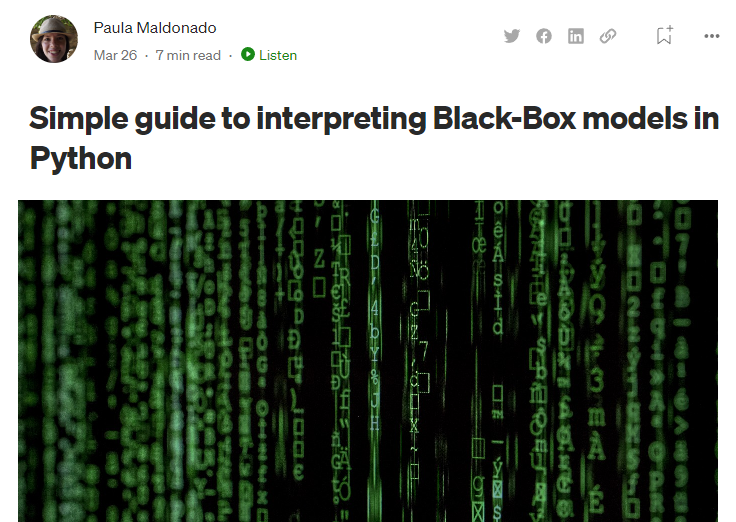
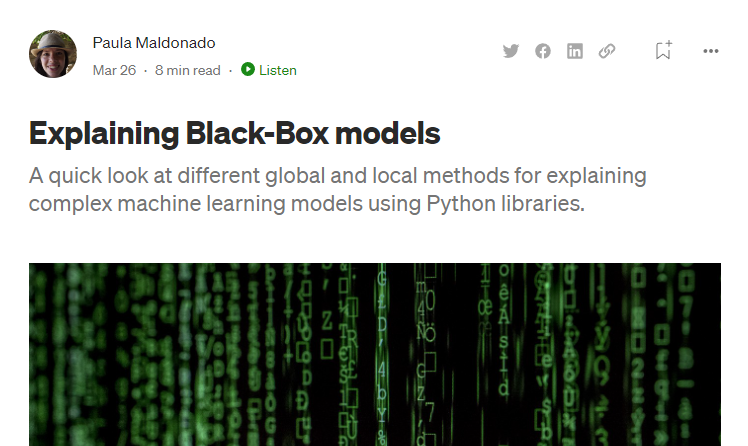
update: medium article title updated

diff --git a/projects.html b/projects.html
@@ -185,12 +185,12 @@
             <div class="portfolio-wrap">
               <figure>
                 <img src="assets/img/portfolio/BlackBoxArticle.png" class="img-fluid" alt="">
-                <a href="assets/img/portfolio/BlackBoxArticle.png" class="link-preview portfolio-lightbox" data-gallery="portfolioGallery" title="Simple guide to interpreting Black-Box models in Python"><i class="bi bi-plus"></i></a>
+                <a href="assets/img/portfolio/BlackBoxArticle.png" class="link-preview portfolio-lightbox" data-gallery="portfolioGallery" title="Simple guide to explaining Black-Box models in Python"><i class="bi bi-plus"></i></a>
                 <a href="https://medium.com/@pcmaldonado/simple-guide-to-interpreting-black-box-models-in-python-5c8bb3b5fcae" class="link-details" title="More Details"><i class="bi bi-link"></i></a>
               </figure>
   
               <div class="portfolio-info">
-                <h4><a href="https://medium.com/@pcmaldonado/simple-guide-to-interpreting-black-box-models-in-python-5c8bb3b5fcae">Interpreting Black-Box models</a></h4>
+                <h4><a href="https://medium.com/@pcmaldonado/simple-guide-to-interpreting-black-box-models-in-python-5c8bb3b5fcae">Explaining Black-Box models</a></h4>
                 <p>Medium Article</p>
               </div>
             </div>

diff --git a/index.html b/index.html
@@ -266,12 +266,12 @@
           <div class="portfolio-wrap">
             <figure>
               <img src="assets/img/portfolio/BlackBoxArticle.png" class="img-fluid" alt="">
-              <a href="assets/img/portfolio/BlackBoxArticle.png" class="link-preview portfolio-lightbox" data-gallery="portfolioGallery" title="Simple guide to interpreting Black-Box models in Python"><i class="bi bi-plus"></i></a>
+              <a href="assets/img/portfolio/BlackBoxArticle.png" class="link-preview portfolio-lightbox" data-gallery="portfolioGallery" title="Simple guide to explaining Black-Box models in Python"><i class="bi bi-plus"></i></a>
               <a href="https://medium.com/@pcmaldonado/simple-guide-to-interpreting-black-box-models-in-python-5c8bb3b5fcae" class="link-details" title="More Details"><i class="bi bi-link"></i></a>
             </figure>
 
             <div class="portfolio-info">
-              <h4><a href="https://medium.com/@pcmaldonado/simple-guide-to-interpreting-black-box-models-in-python-5c8bb3b5fcae">Interpreting Black-Box models</a></h4>
+              <h4><a href="https://medium.com/@pcmaldonado/simple-guide-to-interpreting-black-box-models-in-python-5c8bb3b5fcae">Explaining Black-Box models</a></h4>
               <p>Medium Article</p>
             </div>
           </div>
